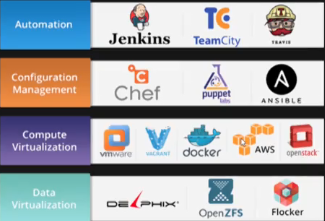
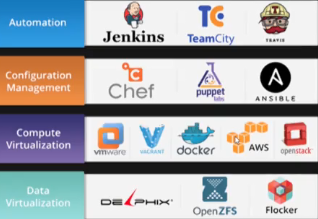
Se centro la imagen para mejor visualización

diff --git a/resumen_git.md b/resumen_git.md
@@ -421,4 +421,5 @@ Si queremos buscar cuántas veces utilizamos un atributo de HTML lo hacemos con 
 # Ciclo de vida del Software
 
 ![Curso git](img/software.png)
-![Curso git](img/herramientas.PNG)
+
+<div align="center"><img src="img/herramientas.PNG"/></div>
